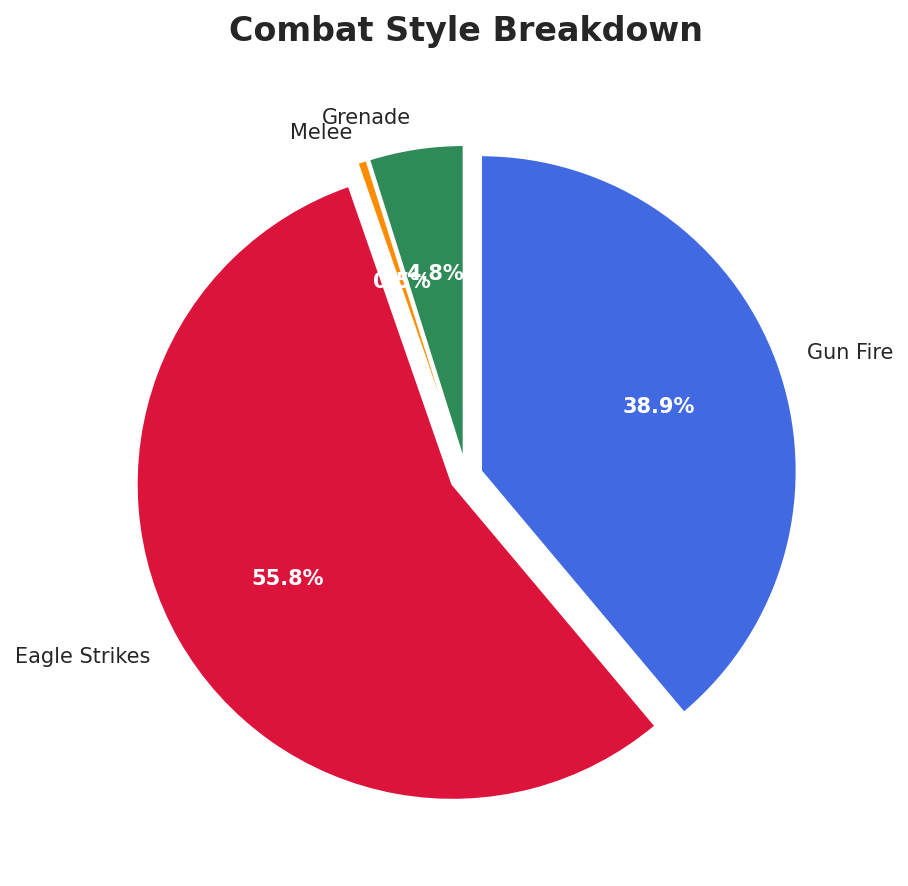
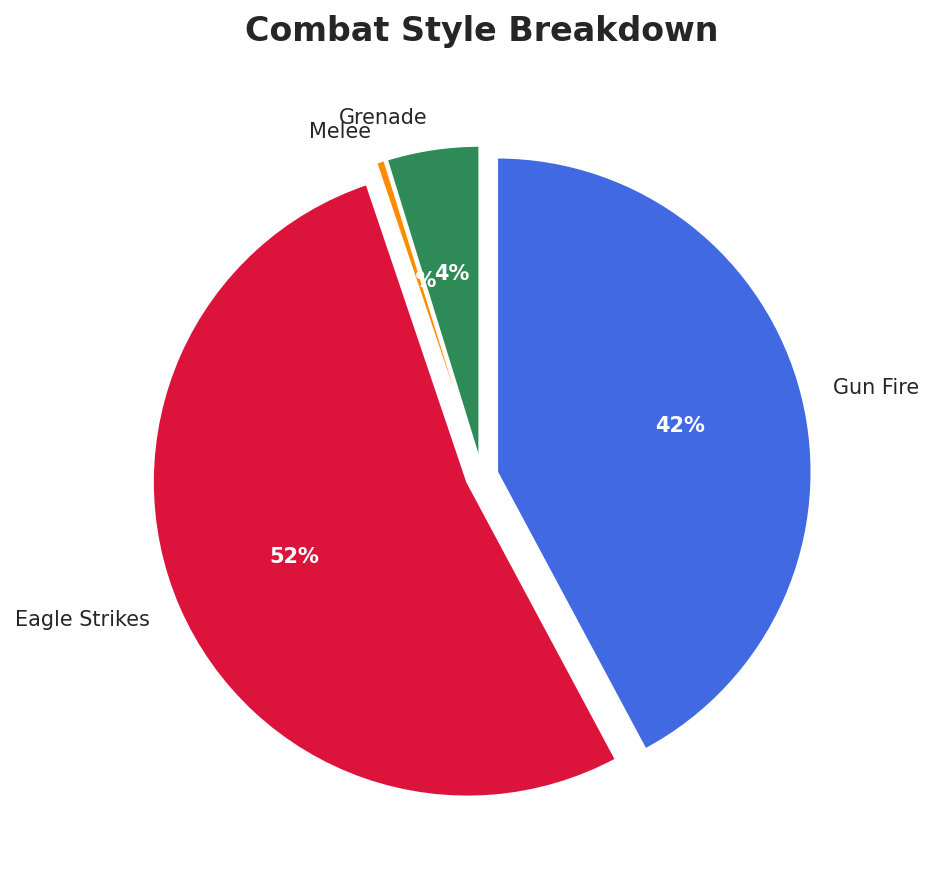
updated project

diff --git a/analyze_stats.py b/analyze_stats.py
@@ -5,19 +5,25 @@ reads CSV data and creates basic visualizations
 """
 
 import pandas as pd
+import matplotlib
+matplotlib.use('Agg')  # use non-interactive backend to avoid Qt errors
 import matplotlib.pyplot as plt
 import seaborn as sns
 import numpy as np
 from pathlib import Path
 
-# style
+
 sns.set_style("darkgrid")
 sns.set_palette("husl")
 
 def load_data(csv_path):
     """Load stats from CSV file"""
     df = pd.read_csv(csv_path)
-    return df.iloc[0].to_dict()  # first row as dictionary
+    if len(df) == 1:
+        return df.iloc[0].to_dict(), None
+    else:
+        # return both rows for comparison
+        return df.iloc[0].to_dict(), df.iloc[-1].to_dict()
 
 def calculate_basic_stats(stats):
     """Calculate basic statistics"""
@@ -35,6 +41,134 @@ def calculate_basic_stats(stats):
     }
     
     return results
+
+def calculate_deltas(stats_old, stats_new):
+    """Calculate the differences between two time periods"""
+    deltas = {}
+    for key in stats_old.keys():
+        if key != 'Date' and isinstance(stats_old[key], (int, float)):
+            deltas[key] = stats_new[key] - stats_old[key]
+    return deltas
+
+def create_comparison_chart(stats_old, stats_new, output_dir=None):
+    """Create comparison chart showing progress between two dates"""
+    fig, axes = plt.subplots(2, 2, figsize=(14, 10))
+    
+    # enemy kills comparison
+    ax1 = axes[0, 0]
+    enemies = ['Terminid', 'Automaton', 'Illuminate']
+    old_kills = [stats_old['Terminid Kills'], stats_old['Automaton Kills'], stats_old['Illuminate Kills']]
+    new_kills = [stats_new['Terminid Kills'], stats_new['Automaton Kills'], stats_new['Illuminate Kills']]
+    
+    x = np.arange(len(enemies))
+    width = 0.35
+    bars1 = ax1.bar(x - width/2, old_kills, width, label=stats_old['Date'], color='#95A5A6')
+    bars2 = ax1.bar(x + width/2, new_kills, width, label=stats_new['Date'], color='#3498DB')
+    
+    ax1.set_title('Enemy Kills Comparison', fontweight='bold')
+    ax1.set_ylabel('Kills')
+    ax1.set_xticks(x)
+    ax1.set_xticklabels(enemies)
+    ax1.legend()
+    
+    # mission stats comparison
+    ax2 = axes[0, 1]
+    categories = ['Missions\nPlayed', 'Missions\nWon', 'Extractions']
+    old_vals = [stats_old['Missions Played'], stats_old['Mission Won'], stats_old['Successful Extractions']]
+    new_vals = [stats_new['Missions Played'], stats_new['Mission Won'], stats_new['Successful Extractions']]
+    
+    x2 = np.arange(len(categories))
+    bars1 = ax2.bar(x2 - width/2, old_vals, width, label=stats_old['Date'], color='#95A5A6')
+    bars2 = ax2.bar(x2 + width/2, new_vals, width, label=stats_new['Date'], color='#2ECC71')
+    
+    ax2.set_title('Mission Stats Comparison', fontweight='bold')
+    ax2.set_ylabel('Count')
+    ax2.set_xticks(x2)
+    ax2.set_xticklabels(categories)
+    ax2.legend()
+    
+    # stratagem usage comparison
+    ax3 = axes[1, 0]
+    strats = ['Orbitals', 'Eagles', 'Defensive', 'Supply']
+    old_strat = [stats_old['Orbitals Used'], stats_old['Eagles Used'], 
+                 stats_old['Defensive Stratagems Used'], stats_old['Supply Stratagems Used']]
+    new_strat = [stats_new['Orbitals Used'], stats_new['Eagles Used'],
+                 stats_new['Defensive Stratagems Used'], stats_new['Supply Stratagems Used']]
+    
+    x3 = np.arange(len(strats))
+    bars1 = ax3.bar(x3 - width/2, old_strat, width, label=stats_old['Date'], color='#95A5A6')
+    bars2 = ax3.bar(x3 + width/2, new_strat, width, label=stats_new['Date'], color='#9B59B6')
+    
+    ax3.set_title('Stratagem Usage Comparison', fontweight='bold')
+    ax3.set_ylabel('Uses')
+    ax3.set_xticks(x3)
+    ax3.set_xticklabels(strats, rotation=15, ha='right')
+    ax3.legend()
+    
+    # growth metrics
+    ax4 = axes[1, 1]
+    deltas = calculate_deltas(stats_old, stats_new)
+    metrics = {
+        'Total Kills': deltas['Terminid Kills'] + deltas['Automaton Kills'] + deltas['Illuminate Kills'],
+        'Missions': deltas['Missions Played'],
+        'Deaths': deltas['Deaths'],
+        'Samples': deltas['Samples Collected']
+    }
+    
+    colors_growth = ['#2ECC71' if v > 0 else '#E74C3C' for v in metrics.values()]
+    bars = ax4.barh(list(metrics.keys()), list(metrics.values()), color=colors_growth)
+    ax4.set_title('Growth (New - Old)', fontweight='bold')
+    ax4.set_xlabel('Change')
+    ax4.axvline(x=0, color='black', linestyle='-', linewidth=0.8)
+    
+    plt.suptitle(f'Stats Comparison: {stats_old["Date"]} vs {stats_new["Date"]}', 
+                 fontsize=16, fontweight='bold', y=0.995)
+    plt.tight_layout()
+    
+    if output_dir:
+        plt.savefig(output_dir / 'comparison.png', dpi=150, bbox_inches='tight')
+        plt.close()
+        print("[PASSED] Created comparison.png")
+
+def print_comparison_summary(stats_old, stats_new, calc_old, calc_new):
+    """Print comparison summary between two time periods"""
+    deltas = calculate_deltas(stats_old, stats_new)
+    
+    print("\n" + "="*70)
+    print(f"PROGRESS COMPARISON: {stats_old['Date']} → {stats_new['Date']}")
+    print("="*70)
+    
+    print("\nMISSIONS PROGRESS")
+    missions_delta = deltas['Missions Played']
+    missions_won_delta = deltas['Mission Won']
+    missions_pct = (missions_delta / stats_old['Missions Played'] * 100) if stats_old['Missions Played'] > 0 else 0
+    print(f"  New Missions Played: +{missions_delta} ({missions_pct:+.1f}%) - Total: {stats_new['Missions Played']}")
+    print(f"  New Missions Won: +{missions_won_delta} - Total: {stats_new['Mission Won']}")
+    success_rate_change = calc_new['Mission Success Rate'] - calc_old['Mission Success Rate']
+    print(f"  Success Rate: {calc_old['Mission Success Rate']:.1f}% → {calc_new['Mission Success Rate']:.1f}% ({success_rate_change:+.1f}%)")
+    extraction_rate_change = calc_new['Extraction Rate'] - calc_old['Extraction Rate']
+    print(f"  Extraction Rate: {calc_old['Extraction Rate']:.1f}% → {calc_new['Extraction Rate']:.1f}% ({extraction_rate_change:+.1f}%)")
+    
+    print("\nCOMBAT PROGRESS")
+    total_kills_delta = deltas['Terminid Kills'] + deltas['Automaton Kills'] + deltas['Illuminate Kills']
+    total_kills_old = stats_old['Terminid Kills'] + stats_old['Automaton Kills'] + stats_old['Illuminate Kills']
+    kills_pct = (total_kills_delta / total_kills_old * 100) if total_kills_old > 0 else 0
+    print(f"  New Kills: +{total_kills_delta} ({kills_pct:+.1f}%)")
+    print(f"  Terminid: +{deltas['Terminid Kills']}")
+    print(f"  Automaton: +{deltas['Automaton Kills']}")
+    print(f"  Illuminate: +{deltas['Illuminate Kills']}")
+    deaths_pct = (deltas['Deaths'] / stats_old['Deaths'] * 100) if stats_old['Deaths'] > 0 else 0
+    print(f"  New Deaths: +{deltas['Deaths']} ({deaths_pct:+.1f}%)")
+    accuracy_change = calc_new['Accuracy'] - calc_old['Accuracy']
+    print(f"  Accuracy: {calc_old['Accuracy']:.1f}% → {calc_new['Accuracy']:.1f}% ({accuracy_change:+.1f}%)")
+    
+    print("\nCOLLECTION PROGRESS")
+    samples_pct = (deltas['Samples Collected'] / stats_old['Samples Collected'] * 100) if stats_old['Samples Collected'] > 0 else 0
+    print(f"  New Samples: +{deltas['Samples Collected']} ({samples_pct:+.1f}%) - Total: {stats_new['Samples Collected']}")
+    xp_pct = (deltas['Total XP Earned'] / stats_old['Total XP Earned'] * 100) if stats_old['Total XP Earned'] > 0 else 0
+    print(f"  New XP: +{deltas['Total XP Earned']} ({xp_pct:+.1f}%) - Total: {stats_new['Total XP Earned']}")
+    
+    print("\n" + "="*70 + "\n")
 
 def create_kill_breakdown_chart(stats, output_dir=None):
     """create enemy kills breakdown chart"""
@@ -54,13 +188,13 @@ def create_kill_breakdown_chart(stats, output_dir=None):
     for bar in bars:
         height = bar.get_height()
         ax.text(bar.get_x() + bar.get_width()/2., height,
-                f'{int(height):,}',
+                f'{int(height)}',
                 ha='center', va='bottom', fontweight='bold')
     
     ax.set_title('Enemy Kills Breakdown', fontsize=16, fontweight='bold', pad=20)
     ax.set_ylabel('Number of Kills', fontsize=12, fontweight='bold')
     ax.set_xlabel('Enemy Type', fontsize=12, fontweight='bold')
-    ax.yaxis.set_major_formatter(plt.FuncFormatter(lambda x, p: f'{int(x):,}'))
+    ax.yaxis.set_major_formatter(plt.FuncFormatter(lambda x, p: f'{int(x)}'))
     plt.xticks(rotation=15, ha='right')
     plt.tight_layout()
     
@@ -77,14 +211,14 @@ def create_combat_style_chart(stats, output_dir=None):
         'Grenade': stats['Grenade Kills'],
         'Melee': stats['Melee Kills'],
         'Eagle Strikes': stats['Eagle Kills'],
-        'Gun Fire': stats['Shots Hit'] // 10  # Approximate gun kills
+        'Gun Fire': stats['Shots Hit'] // 10  # approx gun kills
     }
     
     colors = ['#2E8B57', '#FF8C00', '#DC143C', '#4169E1']
     wedges, texts, autotexts = ax.pie(
         combat_methods.values(),
         labels=combat_methods.keys(),
-        autopct='%1.1f%%',
+        autopct='%d%%',
         colors=colors,
         startangle=90,
         explode=[0.05, 0.05, 0.05, 0.05]
@@ -113,7 +247,7 @@ def create_mission_stats_chart(stats, output_dir=None):
     ax1 = axes[0, 0]
     success_data = [stats['Mission Won'], missions - stats['Mission Won']]
     colors1 = ['#2ECC71', '#E74C3C']
-    ax1.pie(success_data, labels=['Won', 'Lost'], autopct='%1.1f%%', 
+    ax1.pie(success_data, labels=['Won', 'Lost'], autopct='%d%%', 
             colors=colors1, startangle=90)
     ax1.set_title('Mission Success Rate', fontweight='bold', fontsize=12)
     
@@ -121,7 +255,7 @@ def create_mission_stats_chart(stats, output_dir=None):
     ax2 = axes[0, 1]
     extraction_data = [stats['Successful Extractions'], missions - stats['Successful Extractions']]
     colors2 = ['#3498DB', '#95A5A6']
-    ax2.pie(extraction_data, labels=['Extracted', 'Failed'], autopct='%1.1f%%',
+    ax2.pie(extraction_data, labels=['Extracted', 'Failed'], autopct='%d%%',
             colors=colors2, startangle=90)
     ax2.set_title('Extraction Rate', fontweight='bold', fontsize=12)
     
@@ -176,13 +310,13 @@ def create_stratagem_usage_chart(stats, output_dir=None):
     for bar in bars:
         height = bar.get_height()
         ax.text(bar.get_x() + bar.get_width()/2., height,
-                f'{int(height):,}',
+                f'{int(height)}',
                 ha='center', va='bottom', fontweight='bold')
     
     ax.set_title('Stratagem Usage', fontsize=16, fontweight='bold', pad=20)
     ax.set_ylabel('Times Used', fontsize=12, fontweight='bold')
     ax.set_xlabel('Stratagem Type', fontsize=12, fontweight='bold')
-    ax.yaxis.set_major_formatter(plt.FuncFormatter(lambda x, p: f'{int(x):,}'))
+    ax.yaxis.set_major_formatter(plt.FuncFormatter(lambda x, p: f'{int(x)}'))
     plt.xticks(rotation=15, ha='right')
     plt.tight_layout()
     if output_dir:
@@ -198,23 +332,23 @@ def print_summary(stats, calculated_stats):
     print("="*60)
     
     print(f"\nMISSION STATISTICS")
-    print(f"  • Total Missions: {stats['Missions Played']:,}")
-    print(f"  • Missions Won: {stats['Mission Won']:,}")
-    print(f"  • Success Rate: {calculated_stats['Mission Success Rate']:.1f}%")
-    print(f"  • Extraction Rate: {calculated_stats['Extraction Rate']:.1f}%")
+    print(f"  Total Missions: {stats['Missions Played']}")
+    print(f"  Missions Won: {stats['Mission Won']}")
+    print(f"  Success Rate: {calculated_stats['Mission Success Rate']:.1f}%")
+    print(f"  Extraction Rate: {calculated_stats['Extraction Rate']:.1f}%")
     
     print(f"\nCOMBAT STATISTICS")
-    print(f"  • Total Kills: {calculated_stats['Total Kills']:,}")
-    print(f"  • Terminid: {stats['Terminid Kills']:,}")
-    print(f"  • Automaton: {stats['Automaton Kills']:,}")
-    print(f"  • Illuminate: {stats['Illuminate Kills']:,}")
-    print(f"  • K/D Ratio: {calculated_stats['K/D Ratio']:.2f}")
-    print(f"  • Accuracy: {calculated_stats['Accuracy']:.1f}%")
+    print(f"  Total Kills: {calculated_stats['Total Kills']}")
+    print(f"  Terminid: {stats['Terminid Kills']}")
+    print(f"  Automaton: {stats['Automaton Kills']}")
+    print(f"  Illuminate: {stats['Illuminate Kills']}")
+    print(f"  K/D Ratio: {calculated_stats['K/D Ratio']:.1f}")
+    print(f"  Accuracy: {calculated_stats['Accuracy']:.1f}%")
     
     print(f"\nAVERAGES PER MISSION")
-    print(f"  • XP Earned: {calculated_stats['XP Per Mission']:,.0f}")
-    print(f"  • Samples: {calculated_stats['Samples Per Mission']:.1f}")
-    print(f"  • Objectives: {calculated_stats['Objectives Per Mission']:.1f}")
+    print(f"  XP Earned: {calculated_stats['XP Per Mission']:.1f}")
+    print(f"  Samples: {calculated_stats['Samples Per Mission']:.1f}")
+    print(f"  Objectives: {calculated_stats['Objectives Per Mission']:.1f}")
     
     print("\n" + "="*60 + "\n")
 
@@ -224,7 +358,7 @@ def main():
     print("-" * 40)
     
     # find CSV file
-    csv_file = Path('assets/26Feb2025.csv')
+    csv_file = Path('./stats.csv')
     if not csv_file.exists():
         print(f"[ERROR] CSV file not found at {csv_file}")
         return
@@ -235,20 +369,31 @@ def main():
     
     # load and analyze data
     print(f"Loading data from {csv_file}")
-    stats = load_data(csv_file)
+    stats_old, stats_new = load_data(csv_file)
+    
+    # use latest stats for main charts (or old stats if only one row)
+    stats = stats_new if stats_new else stats_old
     
     print("Calculating statistics...")
     calculated_stats = calculate_basic_stats(stats)
     
-    # print summary
+
     print_summary(stats, calculated_stats)
-    
-    # Create visualizations
+
     print("Creating visualizations...")
     create_kill_breakdown_chart(stats, output_dir)
     create_combat_style_chart(stats, output_dir)
     create_mission_stats_chart(stats, output_dir)
     create_stratagem_usage_chart(stats, output_dir)
+    
+    # if we have two datasets, create comparison
+    if stats_new:
+        print("\nCreating comparison analysis...")
+        calculated_stats_old = calculate_basic_stats(stats_old)
+        calculated_stats_new = calculate_basic_stats(stats_new)
+        
+        print_comparison_summary(stats_old, stats_new, calculated_stats_old, calculated_stats_new)
+        create_comparison_chart(stats_old, stats_new, output_dir)
     
     print(f"\n[PASSED] Done! Charts saved to '{output_dir}/' directory")
 

diff --git a/README.md b/README.md
@@ -35,7 +35,13 @@ Simply run the script:
 python analyze_stats.py
 ```
 
-1. Read your stats from `assets/26Feb2025.csv`
+or save the results to a file:
+
+```bash
+python analyze_stats.py > output/summary.txt
+```
+
+1. Read your stats from `stats.csv`
 2. Calculate statistics and print a summary
 3. Generate 4 visualization charts in the `output/` directory:
    - `kill_breakdown.png` - Enemy kills by type
@@ -47,32 +53,13 @@ python analyze_stats.py
 
 To analyze a different CSV file, edit `analyze_stats.py`:
 ```python
-csv_file = Path('assets/your_file.csv')
+csv_file = Path('your_file.csv')
 ```
 
 ## Output Example
 
-```
-HELLDIVERS 2 STATISTICS SUMMARY
-============================================================
-
-MISSION STATISTICS
-• Total Missions: 2,723
-• Missions Won: 2,614
-• Success Rate: 96.0%
-• Extraction Rate: 84.1%
-
-COMBAT STATISTICS
-• Total Kills: 307,326
-• K/D Ratio: 40.26
-• Accuracy: 51.8%
-
-AVERAGES PER MISSION
-• XP Earned: 1,153
-• Samples: 17.4
-• Objectives: 5.0
-```
-
+![Comparison](./output/comparison.png)
+---
 ![Mission Stats](./output/mission_stats.png)
 ---
 ![Combat Style](./output/combat_style.png)
